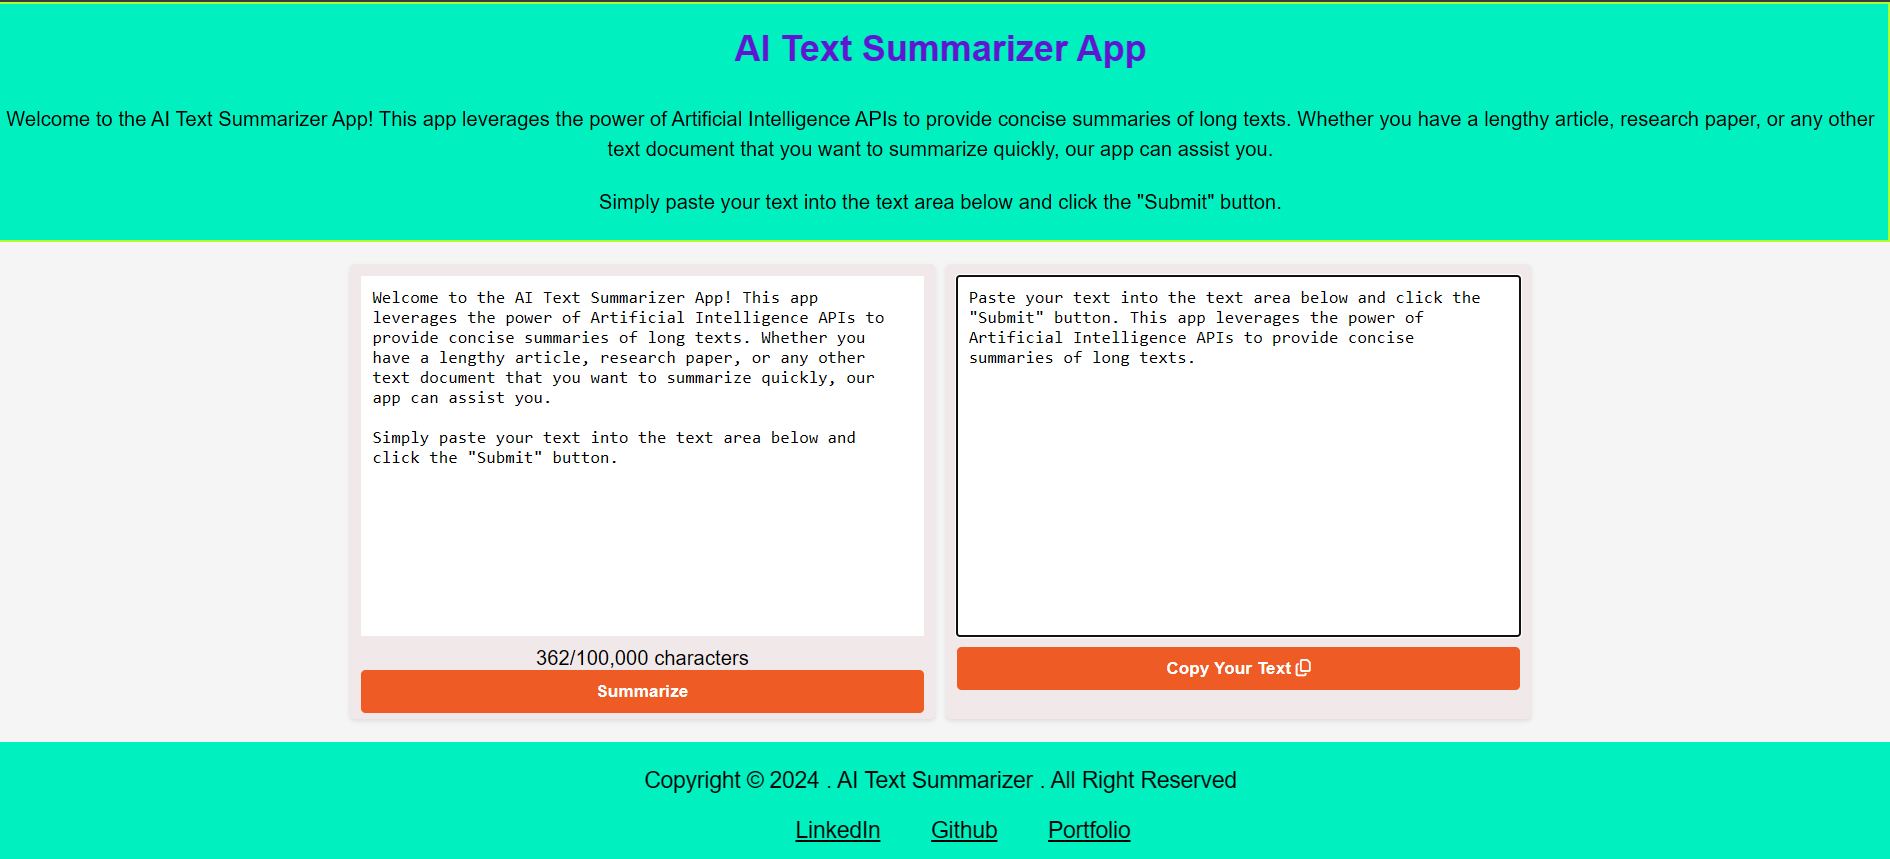
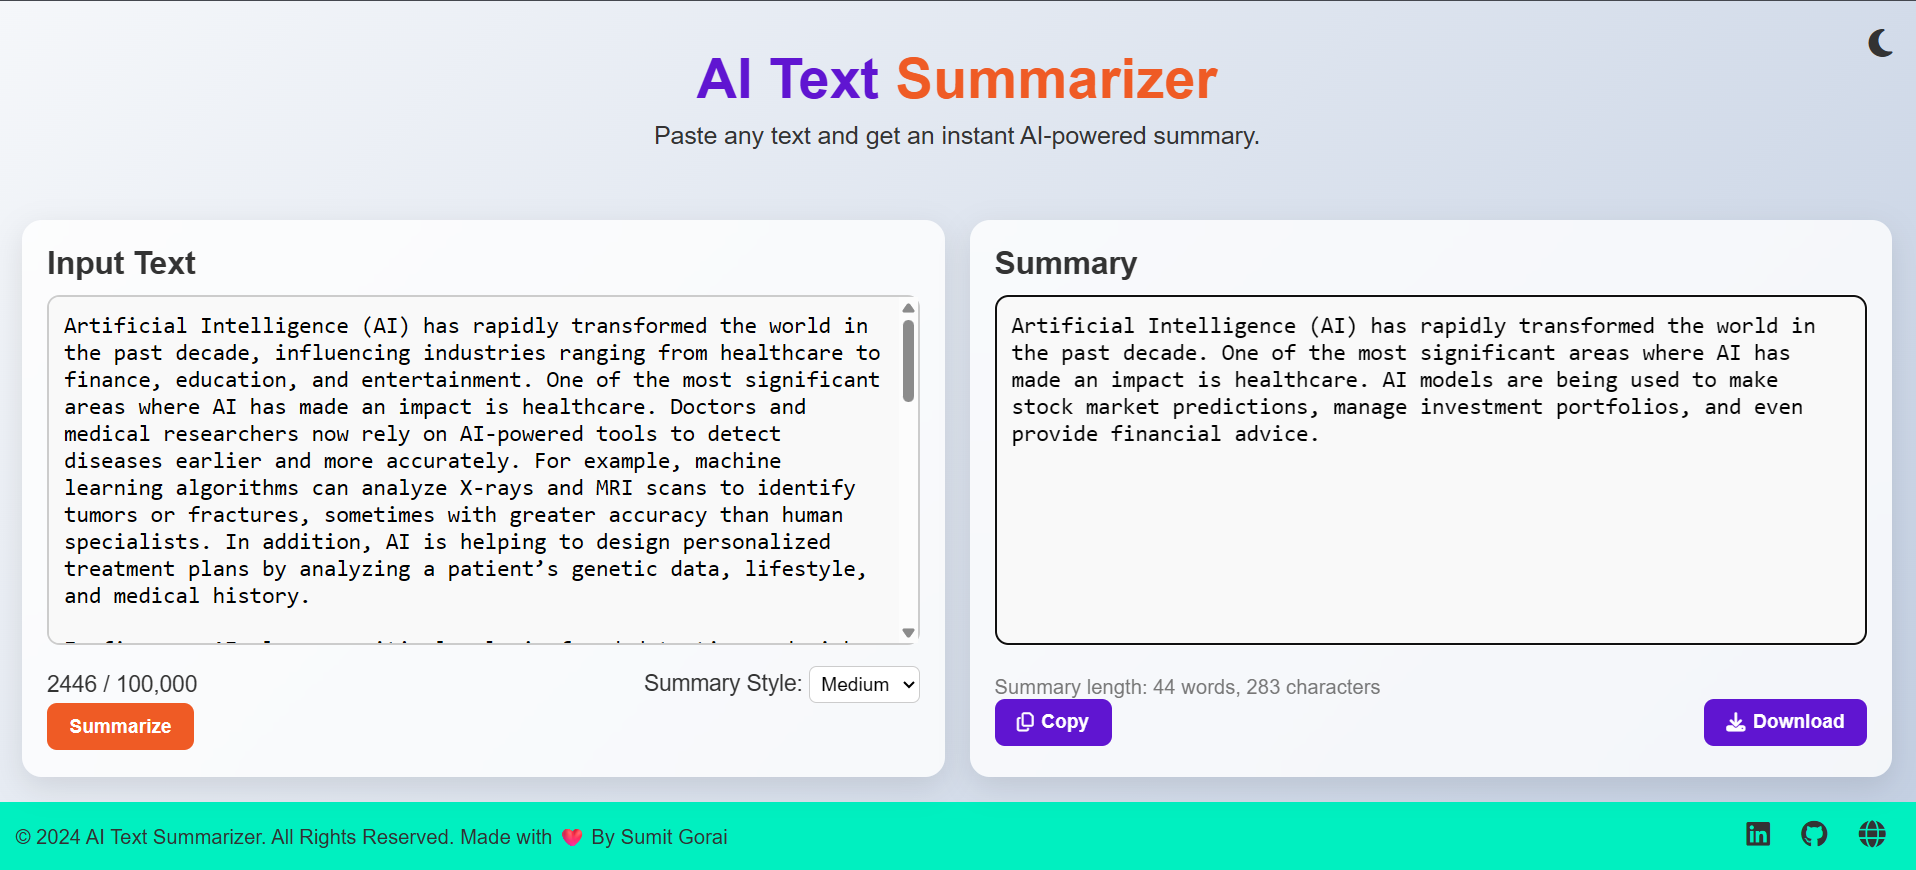
update ai text summarizer-img

diff --git a/public/index.html b/public/index.html
@@ -71,7 +71,7 @@
 
     <footer>
       <div class="footer-content">
-        <p>© 2024 AI Text Summarizer. All Rights Reserved.</p>
+        <p>© 2024 AI Text Summarizer. All Rights Reserved. Made with ❤ By Sumit Gorai</p>
         <div class="socials">
           <a href="https://www.linkedin.com/in/sumitgorai01/"
             ><i class="fa-brands fa-linkedin"></i

diff --git a/public/stylesheet.css b/public/stylesheet.css
@@ -81,7 +81,7 @@ h2 {
 
 textarea {
   width: 100%;
-  height: 220px;
+  height: 280px;
   border: none;
   border-radius: 10px;
   padding: 12px;
@@ -89,6 +89,7 @@ textarea {
   resize: none;
   margin-bottom: 12px;
   background: #f9f9f9;
+  border: 2px solid #ccc;
 }
 
 body.dark textarea {
